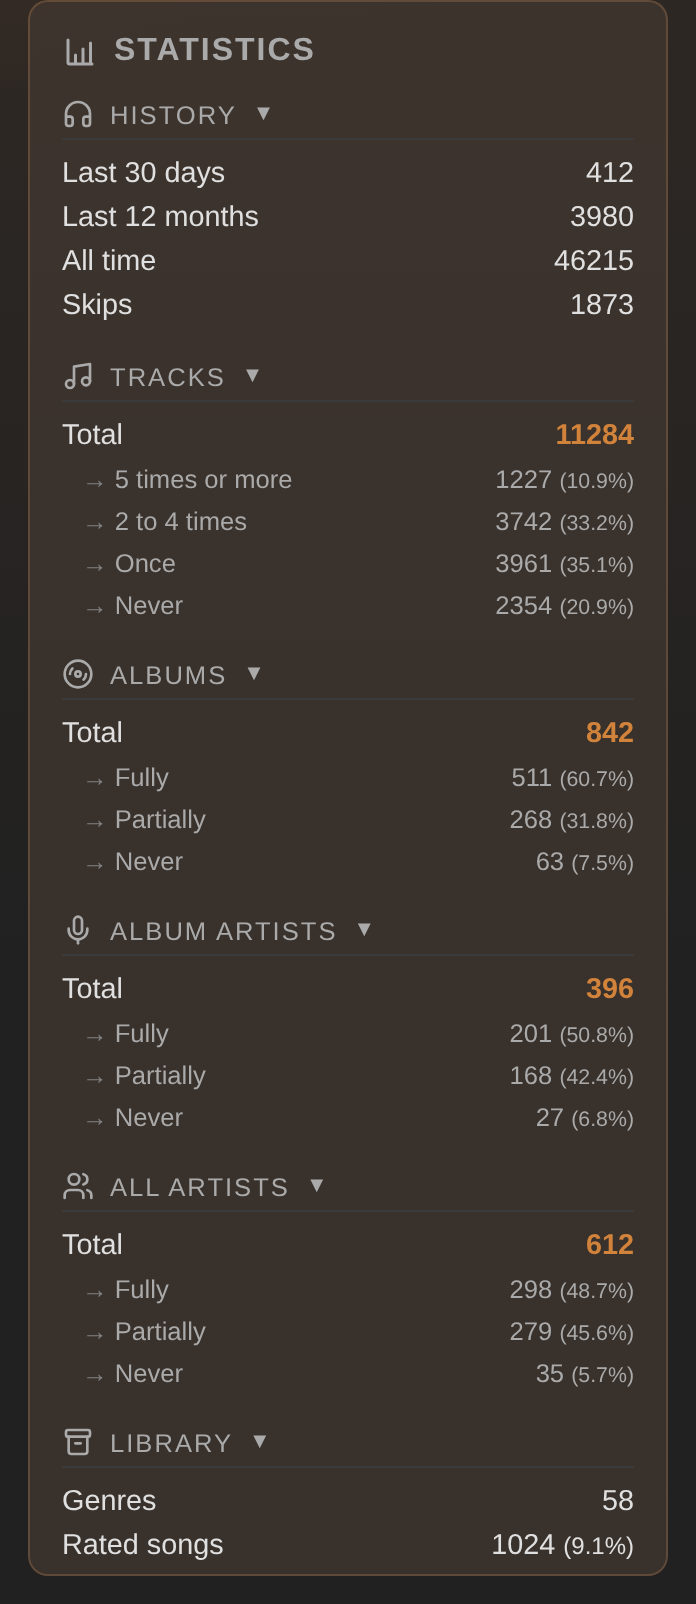
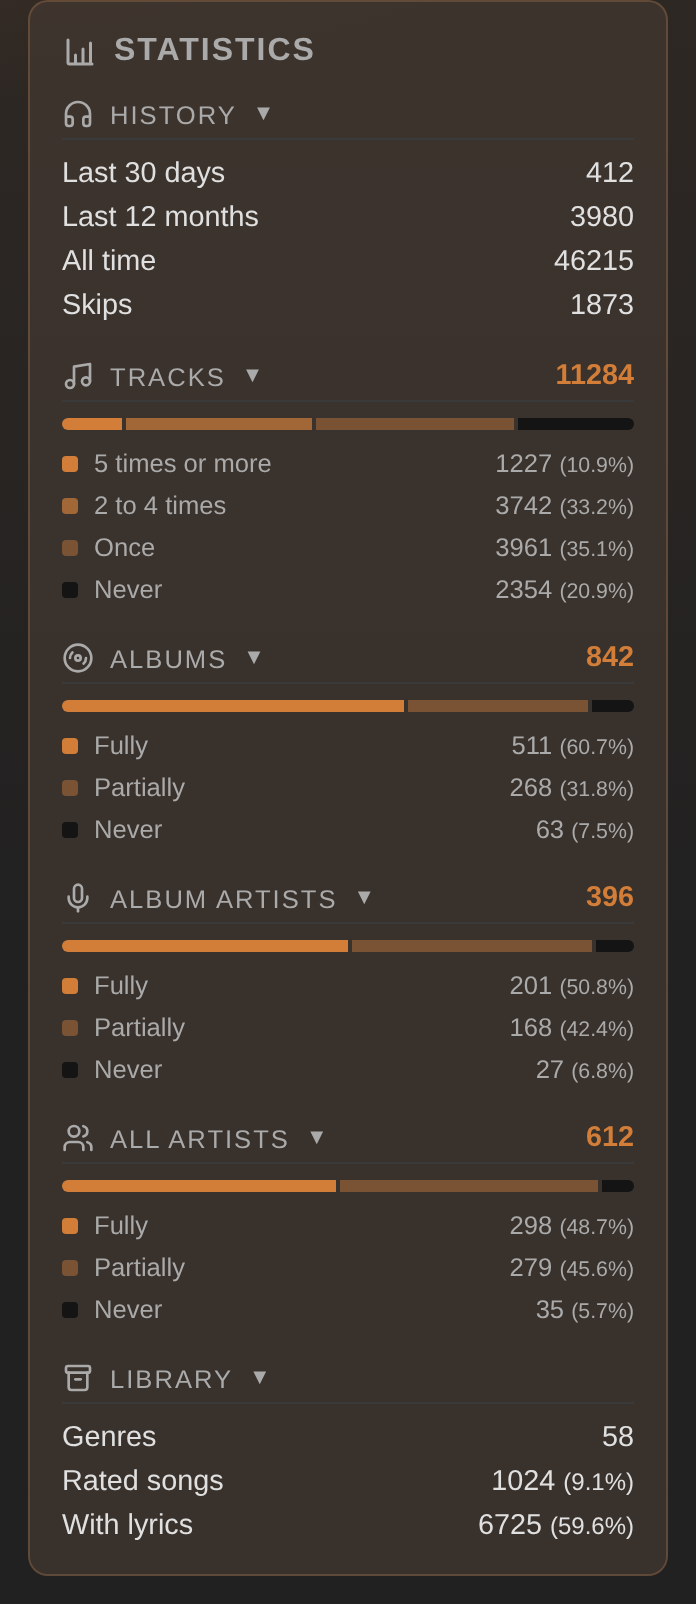
feat(stats): draw each completion group as a stacked bar (#138)
* feat(stats): draw each completion group as a stacked bar

The tracks, albums and both artist groups each get a 100% bar split
by play level, above the sub rows. A square marker in the level's
colour replaces the arrow on each sub row, so the rows double as the
bar's legend. Levels run from the accent (most played) through two
lighter mixes to near-black for never played.

Collapsing a group hides its rows but keeps the bar and the total,
so a fully collapsed panel is a compact visual summary. The total
now always sits in the group title, accented, and the separate
"Total" row (and its i18n key) is gone.

The CSP refuses inline style attributes, so the template ships each
percentage as data-pct and paintStatBars sizes the segments with
flex-grow through the CSSOM, on load and after each stats poll.

Claude-Session: https://claude.ai/code/session_013vbdi2kC1iJpqjs1ToMSmb

* fix(stats): keep the once-played level clear of the bar's background

At 30% of the accent over the surface, the "once" level read as an
empty track: a library where most tracks were played exactly once
looked barely started. The two intermediate levels now sit at 70% and
45% of the accent, so only the near-black "never" reads as empty.

Claude-Session: https://claude.ai/code/session_013vbdi2kC1iJpqjs1ToMSmb

* fix(stats): show a segment's figures when hovering the bar

Each bar segment takes its legend row's label and value as its title,
[…]

Changed region(s): [[0.0905, 0.2182, 0.9052, 0.9663]]

diff --git a/templates/nowplaying.html b/templates/nowplaying.html
@@ -132,7 +132,6 @@
 
             {# Group order is by how fast the numbers move: history changes with every
                play, completion with the library, the library block only on a scan. #}
-            {# The accent (stat-value) marks a group's total; a group without one accents nothing. #}
             <div class="stat-group">
                 <div class="stat-group-title">
                     <span class="stat-group-title-label">{{ icons.history_icon(16) }} {{ t.history }}</span>
@@ -162,23 +161,25 @@
                     <span class="stat-group-title-label">{{ icons.tracks_icon(16) }} {{ t.tracks }}</span>
                     <span class="stat-group-total" data-stat="songs_total">{{ stats.songs_total }}</span>
                 </div>
-                <div class="stat-row">
-                    <span class="stat-label">{{ t.total }}</span>
-                    <span class="stat-value" data-stat="songs_total">{{ stats.songs_total }}</span>
+                <div class="stat-bar" aria-hidden="true">
+                    <span class="stat-bar-seg stat-level-1" data-stat-bar="songs_played_5_plus_pct" data-pct="{{ stats.songs_played_5_plus_pct }}"></span>
+                    <span class="stat-bar-seg stat-level-2" data-stat-bar="songs_played_2_4_pct" data-pct="{{ stats.songs_played_2_4_pct }}"></span>
+                    <span class="stat-bar-seg stat-level-3" data-stat-bar="songs_played_once_pct" data-pct="{{ stats.songs_played_once_pct }}"></span>
+                    <span class="stat-bar-seg stat-level-4" data-stat-bar="songs_unplayed_apc_pct" data-pct="{{ stats.songs_unplayed_apc_pct }}"></span>
                 </div>
-                <div class="stat-row sub">
+                <div class="stat-row sub stat-level-1">
                     <span class="stat-label">{{ t.played_5_plus }}</span>
                     <span data-stat="songs_played_5_plus" data-stat-pct="songs_played_5_plus_pct">{{ stats.songs_played_5_plus }} <small>({{ stats.songs_played_5_plus_pct }}%)</small></span>
                 </div>
-                <div class="stat-row sub">
+                <div class="stat-row sub stat-level-2">
                     <span class="stat-label">{{ t.played_2_4 }}</span>
                     <span data-stat="songs_played_2_4" data-stat-pct="songs_played_2_4_pct">{{ stats.songs_played_2_4 }} <small>({{ stats.songs_played_2_4_pct }}%)</small></span>
                 </div>
-                <div class="stat-row sub">
+                <div class="stat-row sub stat-level-3">
                     <span class="stat-label">{{ t.played_once }}</span>
                     <span data-stat="songs_played_once" data-stat-pct="songs_played_once_pct">{{ stats.songs_played_once }} <small>({{ stats.songs_played_once_pct }}%)</small></span>
                 </div>
-                <div class="stat-row sub">
+                <div class="stat-row sub stat-level-4">
                     <span class="stat-label">{{ t.unplayed }}</span>
                     <span data-stat="songs_unplayed_apc" data-stat-pct="songs_unplayed_apc_pct">{{ stats.songs_unplayed_apc }} <small>({{ stats.songs_unplayed_apc_pct }}%)</small></span>
                 </div>
@@ -189,19 +190,20 @@
                     <span class="stat-group-title-label">{{ icons.albums_icon(16) }} {{ t.albums }}</span>
                     <span class="stat-group-total" data-stat="albums_total">{{ stats.albums_total }}</span>
                 </div>
-                <div class="stat-row">
-                    <span class="stat-label">{{ t.total }}</span>
-                    <span class="stat-value" data-stat="albums_total">{{ stats.albums_total }}</span>
+                <div class="stat-bar" aria-hidden="true">
+                    <span class="stat-bar-seg stat-level-1" data-stat-bar="albums_played_pct" data-pct="{{ stats.albums_played_pct }}"></span>
+                    <span class="stat-bar-seg stat-level-3" data-stat-bar="albums_not_fully_pct" data-pct="{{ stats.albums_not_fully_pct }}"></span>
+                    <span class="stat-bar-seg stat-level-4" data-stat-bar="albums_never_pct" data-pct="{{ stats.albums_never_pct }}"></span>
                 </div>
-                <div class="stat-row sub">
+                <div class="stat-row sub stat-level-1">
                     <span class="stat-label">{{ t.fully_played }}</span>
                     <span data-stat="albums_played" data-stat-pct="albums_played_pct">{{ stats.albums_played }} <small>({{ stats.albums_played_pct }}%)</small></span>
                 </div>
-                <div class="stat-row sub">
+                <div class="stat-row sub stat-level-3">
                     <span class="stat-label">{{ t.partially_played }}</span>
                     <span data-stat="albums_not_fully" data-stat-pct="albums_not_fully_pct">{{ stats.albums_not_fully }} <small>({{ stats.albums_not_fully_pct }}%)</small></span>
                 </div>
-                <div class="stat-row sub">
+                <div class="stat-row sub stat-level-4">
                     <span class="stat-label">{{ t.never_played }}</span>
                     <span data-stat="albums_never" data-stat-pct="albums_never_pct">{{ stats.albums_never }} <small>({{ stats.albums_never_pct }}%)</small></span>
                 </div>
@@ -212,19 +214,20 @@
                     <span class="stat-group-title-label">{{ icons.album_artists_icon(16) }} {{ t.album_artists }}</span>
                     <span class="stat-group-total" data-stat="artists_total">{{ stats.artists_total }}</span>
                 </div>
-                <div class="stat-row">
-                    <span class="stat-label">{{ t.total }}</span>
-                    <span class="stat-value" data-stat="artists_total">{{ stats.artists_total }}</span>
+                <div class="stat-bar" aria-hidden="true">
+                    <span class="stat-bar-seg stat-level-1" data-stat-bar="artists_played_pct" data-pct="{{ stats.artists_played_pct }}"></span>
+                    <span class="stat-bar-seg stat-level-3" data-stat-bar="artists_partial_pct" data-pct="{{ stats.artists_partial_pct }}"></span>
+                    <span class="stat-bar-seg stat-level-4" data-stat-bar="artists_unplayed_pct" data-pct="{{ stats.artists_unplayed_pct }}"></span>
                 </div>
-                <div class="stat-row sub">
+                <div class="stat-row sub stat-level-1">
                     <span class="stat-label">{{ t.fully_played }}</span>
                     <span data-stat="artists_played" data-stat-pct="artists_played_pct">{{ stats.artists_played }} <small>({{ stats.artists_played_pct }}%)</small></span>
                 </div>
-                <div class="stat-row sub">
+                <div class="stat-row sub stat-level-3">
                     <span class="stat-label">{{ t.partially_played }}</span>
                     <span data-stat="artists_partial" data-stat-pct="artists_partial_pct">{{ stats.artists_partial }} <small>({{ stats.artists_partial_pct }}%)</small></span>
                 </div>
-                <div class="stat-row sub">
+                <div class="stat-row sub stat-level-4">
                     <span class="stat-label">{{ t.never_played }}</span>
                     <span data-stat="artists_unplayed" data-stat-pct="artists_unplayed_pct">{{ stats.artists_unplayed }} <small>({{ stats.artists_unplayed_pct }}%)</small></span>
                 </div>
@@ -235,19 +238,20 @@
                     <span class="stat-group-title-label">{{ icons.track_artists_icon(16) }} {{ t.track_artists }}</span>
                     <span class="stat-group-total" data-stat="track_artists_total">{{ stats.track_artists_total }}</span>
                 </div>
-                <div class="stat-row">
-                    <span class="stat-label">{{ t.total }}</span>
-                    <span class="stat-value" data-stat="track_artists_total">{{ stats.track_artists_total }}</span>
+                <div class="stat-bar" aria-hidden="true">
+                    <span class="stat-bar-seg stat-level-1" data-stat-bar="track_artists_fully_played_pct" data-pct="{{ stats.track_artists_fully_played_pct }}"></span>
+                    <span class="stat-bar-seg stat-level-3" data-stat-bar="track_artists_partially_played_pct" data-pct="{{ stats.track_artists_partially_played_pct }}"></span>
+                    <span class="stat-bar-seg stat-level-4" data-stat-bar="track_artists_unplayed_pct" data-pct="{{ stats.track_artists_unplayed_pct }}"></span>
                 </div>
-                <div class="stat-row sub">
+                <div class="stat-row sub stat-level-1">
                     <span class="stat-label">{{ t.fully_played }}</span>
                     <span data-stat="track_artists_fully_played" data-stat-pct="track_artists_fully_played_pct">{{ stats.track_artists_fully_played }} <small>({{ stats.track_artists_fully_played_pct }}%)</small></span>
                 </div>
-                <div class="stat-row sub">
+                <div class="stat-row sub stat-level-3">
                     <span class="stat-label">{{ t.partially_played }}</span>
                     <span data-stat="track_artists_partially_played" data-stat-pct="track_artists_partially_played_pct">{{ stats.track_artists_partially_played }} <small>({{ stats.track_artists_partially_played_pct }}%)</small></span>
                 </div>
-                <div class="stat-row sub">
+                <div class="stat-row sub stat-level-4">
                     <span class="stat-label">{{ t.never_played }}</span>
                     <span data-stat="track_artists_unplayed" data-stat-pct="track_artists_unplayed_pct">{{ stats.track_artists_unplayed }} <small>({{ stats.track_artists_unplayed_pct }}%)</small></span>
                 </div>

diff --git a/static/nowplaying.js b/static/nowplaying.js
@@ -1820,7 +1820,33 @@ function renderStats(stats) {
             el.textContent = value;
         }
     });
+    document.querySelectorAll('[data-stat-bar]').forEach(function(seg) {
+        var pct = stats[seg.dataset.statBar];
+        if (pct !== undefined) { seg.dataset.pct = pct; }
+    });
+    paintStatBars();
     dimZeroSubRows();
+}
+
+// The CSP refuses inline style attributes, so the widths arrive as data and land through the CSSOM.
+function paintStatBars() {
+    document.querySelectorAll('.stat-bar-seg').forEach(function(seg) {
+        var pct = parseFloat(seg.dataset.pct) || 0;
+        seg.style.flexGrow = pct;
+        seg.hidden = pct <= 0;
+        seg.title = statBarTitle(seg);
+    });
+}
+
+// A segment's tooltip is its own legend row, which carries the label and the figures.
+function statBarTitle(seg) {
+    var level = Array.prototype.find.call(seg.classList, function(c) { return c.indexOf('stat-level-') === 0; });
+    var group = seg.closest('.stat-group');
+    var row = level && group ? group.querySelector('.stat-row.' + level) : null;
+    if (!row) { return ''; }
+    var label = row.querySelector('.stat-label');
+    var value = row.querySelector('[data-stat]');
+    return (label ? label.textContent.trim() : '') + ' · ' + (value ? value.textContent.trim() : '');
 }
 
 function dimZeroSubRows() {
@@ -1849,6 +1875,7 @@ document.addEventListener('visibilitychange', catchUp);
 window.addEventListener('focus', catchUp);
 window.addEventListener('pageshow', catchUp);
 
+paintStatBars();
 dimZeroSubRows();
 poll();
 setInterval(poll, POLL_INTERVAL_MS);

diff --git a/static/style.css b/static/style.css
@@ -202,17 +202,34 @@ hr {
 }
 
 .stat-group-total {
-    color: var(--text-muted);
+    color: var(--accent-color);
     font-size: var(--fs-sm);
+    font-weight: bold;
+    letter-spacing: 0;
     white-space: nowrap;
-}
-
-.stat-group:not(.collapsed) .stat-group-total {
-    display: none;
 }
 
 .stat-group.collapsed .stat-row {
     display: none;
+}
+
+.stat-level-1 { --level-color: var(--accent-color); }
+.stat-level-2 { --level-color: color-mix(in srgb, var(--accent-color) 70%, var(--surface)); }
+.stat-level-3 { --level-color: color-mix(in srgb, var(--accent-color) 45%, var(--surface)); }
+.stat-level-4 { --level-color: #141414; }
+
+.stat-bar {
+    display: flex;
+    gap: 2px;
+    height: 6px;
+    margin: 8px 0 6px;
+    border-radius: 3px;
+    overflow: hidden;
+}
+
+.stat-bar-seg {
+    flex: 0 0 0;
+    background: var(--level-color);
 }
 
 .stat-row {
@@ -225,7 +242,6 @@ hr {
 }
 
 .stat-row.sub {
-    padding-left: 10px;
     color: var(--text-muted);
     font-size: var(--fs-xs);
 }
@@ -234,16 +250,18 @@ hr {
     opacity: 0.4;
 }
 
-.stat-row.sub .stat-label::before {
-    content: "\2192\00a0";
-    color: var(--text-faint);
+.stat-row.sub .stat-label {
+    display: inline-flex;
+    align-items: center;
+    gap: 8px;
 }
 
-.stat-value {
-    font-weight: bold;
-    color: var(--accent-color);
-    white-space: nowrap;
-    margin-left: 8px;
+.stat-row.sub .stat-label::before {
+    content: "";
+    width: 8px;
+    height: 8px;
+    border-radius: 2px;
+    background: var(--level-color);
 }
 
 .now-playing {

diff --git a/i18n.py b/i18n.py
@@ -37,7 +37,6 @@ TRANSLATIONS = {
         "album_artists": "Artistes d'album",
         "track_artists": "Tous les artistes",
         "library": "Bibliothèque",
-        "total": "Total",
         "fully_played": "Complètement",
         "partially_played": "Partiellement",
         "never_played": "Jamais",
@@ -82,7 +81,6 @@ TRANSLATIONS = {
         "album_artists": "Album artists",
         "track_artists": "All artists",
         "library": "Library",
-        "total": "Total",
         "fully_played": "Fully",
         "partially_played": "Partially",
         "never_played": "Never",

diff --git a/.claude/skills/frontend/SKILL.md b/.claude/skills/frontend/SKILL.md
@@ -115,6 +115,10 @@ Opening is a FLIP: `animateZoom` measures the card cover's box and the enlarged 
 
 The card shows a 512px thumbnail; the overlay paints that cached thumbnail first and swaps in the original artwork (the same `/cover/` URL without `?size=`) once it has loaded, so it never shows a blank frame.
 
+## Stats panel
+
+Each `.stat-group` folds on a click of its title; collapsed, it hides its `.stat-row`s but keeps its title total and its `.stat-bar`. The completion groups (tracks, albums, both artist counts) carry that bar: one `.stat-bar-seg` per sub row, sized by `flex-grow` from the row's percentage. The CSP refuses inline `style` attributes, so the template ships each percentage as `data-pct` and `paintStatBars` applies it through the CSSOM, on load and after every `/stats.json` poll; a zero segment is `hidden` so it leaves no gap. Each segment's `title` is copied from its legend row (`statBarTitle`), so hovering the bar of a collapsed group still gives the figures. A `stat-level-1`…`stat-level-4` class on both the segment and its row sets `--level-color`, the row's square marker doubling as the bar's legend: the accent for the most played, two lighter mixes toward `--surface`, and near-black for never played.
+
 ## Mosaic and recent-plays pile
 
 The empty-state background mosaic (`loadMosaic`/`layoutMosaic`/`stepMosaic`) and the recent-plays sleeve pile (`loadRecent`/`renderRecent`) are decorative, desktop-driven layouts. They pull cover ids from `/mosaic-covers.json` and `/recent-covers.json`.
